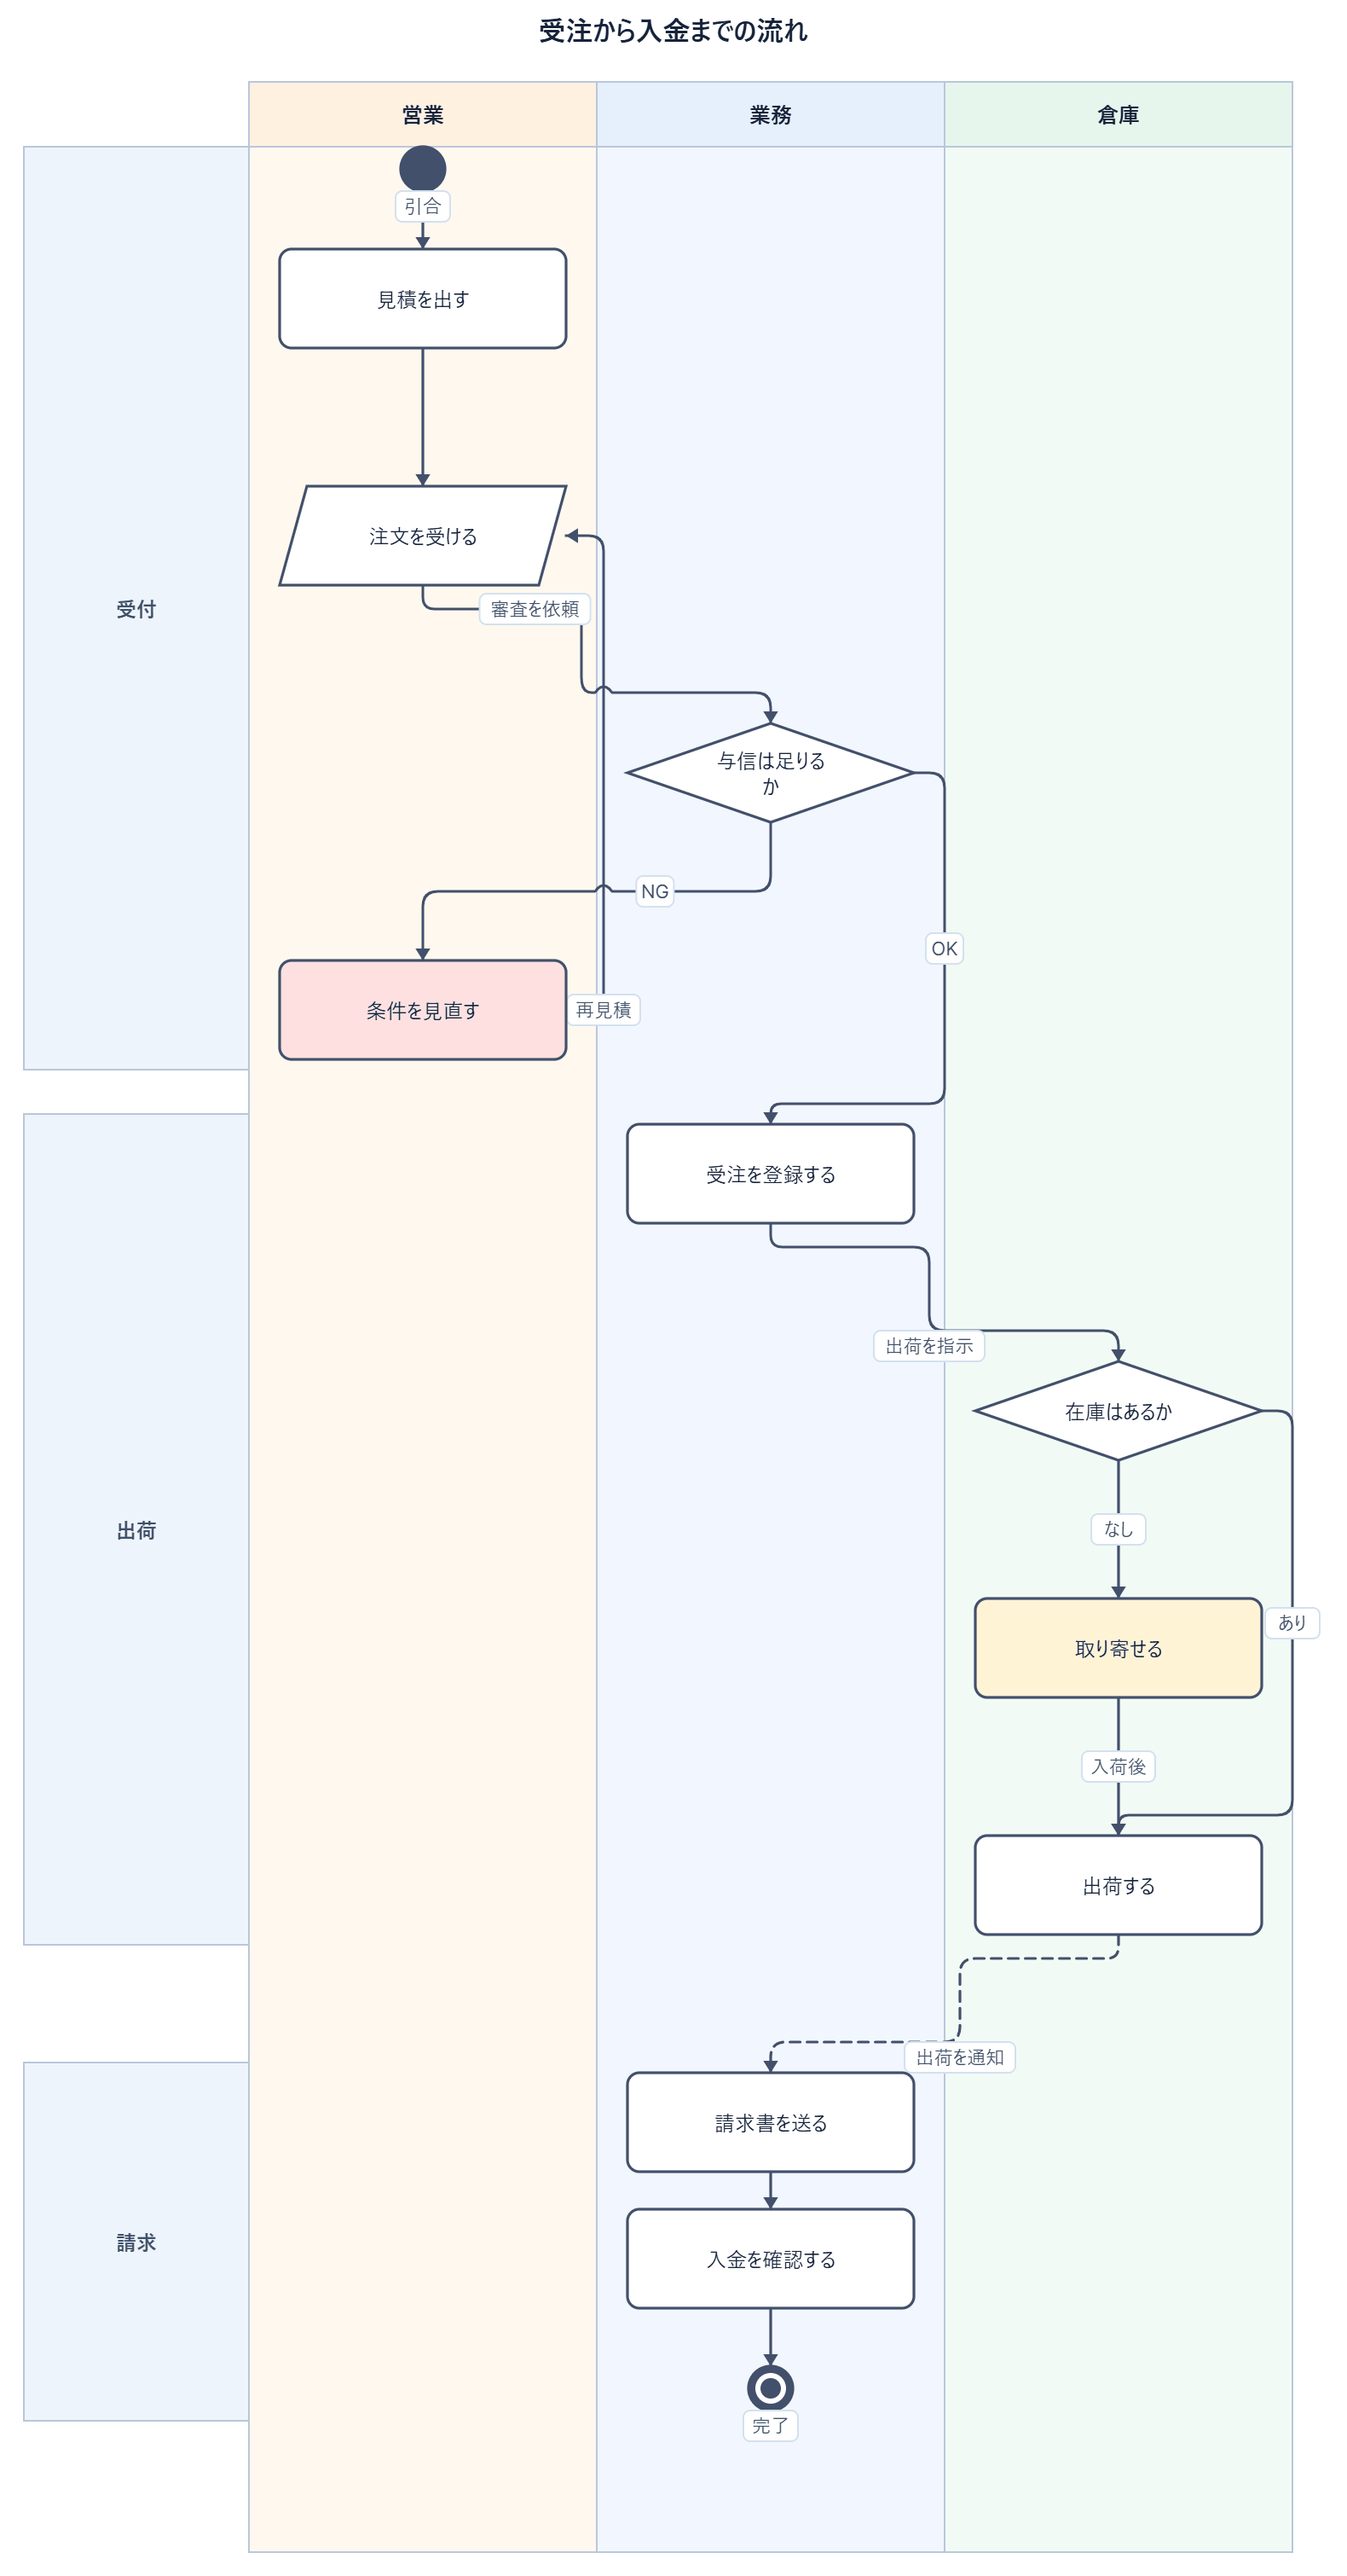
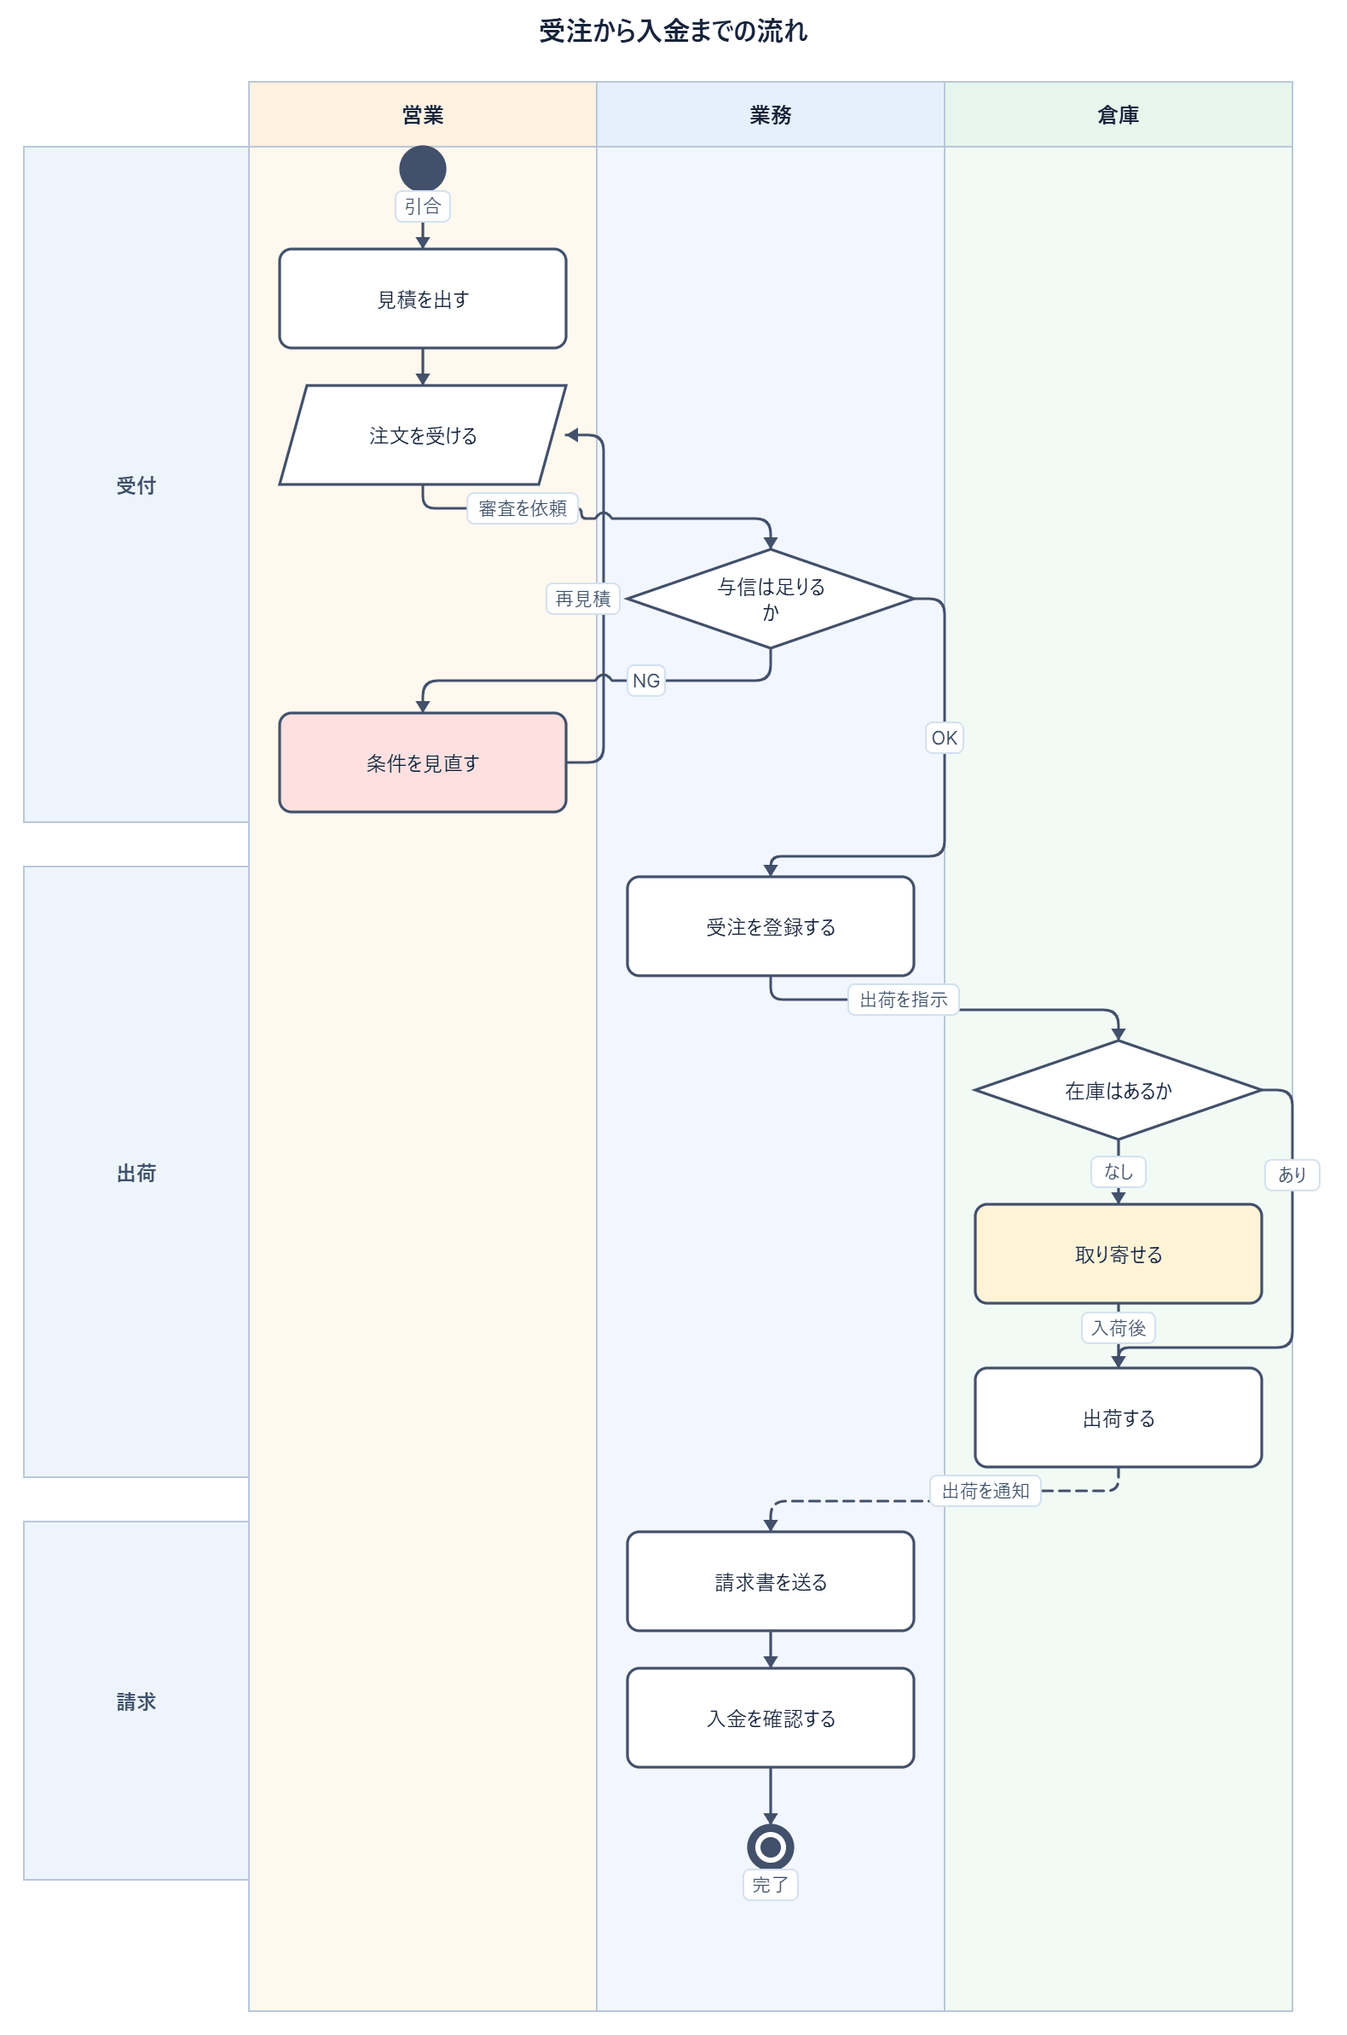
同梱しているエンジンを更新する（段の隙間を詰めた / 1.3.0）
swimlane-diagram 1.3.0 を取り込み、README の図も描き直した。
ラベルも折れ線も無い段が詰まり、ラベルがノードに重ならなくなっている。

diff --git a/vendor/swimlane.js b/vendor/swimlane.js
@@ -82,9 +82,18 @@ function quote(s){
 }
 /* 接続ラベルのおおよその表示幅（px）。ラベル背景の白丸角パネルの実際の幅と合わせて使う。
    全角文字は半角の約2倍として概算する（等幅ではないので目安値）。 */
+/* 接続ラベルの白い箱の高さ。描画と間隔の計算で同じ値を使う */
+const LABEL_BOX_H = 18;
 function labelPixelWidth(label){
   return [...String(label || '')].reduce((n, ch) => n + (/[\x00-\xff]/.test(ch) ? 6 : 11), 0) + 10;
 }
+/* 接続ラベルが「流れの向き」に要する大きさ（px）。
+   LR では文字の長さがそのまま効くが、TB では箱の高さ（18px）しか要らない。
+   ここを取り違えると、長いラベルが1つあるだけでフェーズ全体の段が間延びする。 */
+function labelMainExtent(label, dir){
+  return dir === 'LR' ? labelPixelWidth(label) + 16 : LABEL_BOX_H + 20;
+}
+
 /* 見出し（レーン名・フェーズ名）のおおよその表示幅（px）。
    太字なので、全角はフォントサイズとほぼ同じ幅、半角はその約6割として概算する。 */
 function headerTextWidth(label, fontSize){
@@ -683,30 +692,45 @@ function computeLayout(state){
       const ap = state.phases.length ? (A.phaseId || phases[0].id) : '__all';
       const bp = state.phases.length ? (B.phaseId || phases[0].id) : '__all';
       const aj = phases.findIndex(p=> p.id === ap), bj = phases.findIndex(p=> p.id === bp);
-      if((aj === j && bj === j + 1) || (aj === j + 1 && bj === j)) need = Math.max(need, labelPixelWidth(e.label) + 16);
+      if((aj === j && bj === j + 1) || (aj === j + 1 && bj === j)) need = Math.max(need, labelMainExtent(e.label, dir));
     });
     if(need) gapAfter[j] = Math.max(gapAfter[j], need);
   }
 
-  // フェーズ内にラベル付きの接続があると、流れ方向の間隔を広げてラベルの前後に棒を出す（要求1.2）。
-  // こちらも同様に、ラベルの実際の表示幅から必要な間隔を求める（要求1.2）。
-  const phaseGap = phases.map(p=>{
-    let need = L.gapInner;
+  /* 段と段の隙間は、その隙間を実際に何が通るかで決める（フェーズ内で一律にしない）。
+     ラベル付きの接続がまたぐ隙間だけを広げ、何も通らない隙間は gapInner のまま詰める。
+     一律にしていた頃は、長いラベルが1つあるだけでフェーズ全体が間延びしていた
+     （英語版の Intake が 110px、ラベルの無い Billing が 22px で、同じ図の中で揃わなかった）。 */
+  const phaseGapAt = phases.map((p, j)=>{
+    const gaps = new Array(Math.max(0, phaseRuns[j] - 1)).fill(L.gapInner);
+    if(!gaps.length) return gaps;
     state.links.forEach(e=>{
       if(!e.label) return;
       const A = state.nodes.find(n=> n.id === e.from), B = state.nodes.find(n=> n.id === e.to);
       if(!A || !B) return;
       const ap = state.phases.length ? (A.phaseId || phases[0].id) : '__all';
       const bp = state.phases.length ? (B.phaseId || phases[0].id) : '__all';
-      if(ap === p.id && bp === p.id) need = Math.max(need, labelPixelWidth(e.label) + 16);
+      if(ap !== p.id || bp !== p.id) return;
+      const pa = nodePos.get(A.id), pb = nodePos.get(B.id);
+      if(!pa || !pb) return;
+      const lo = Math.min(pa.flow, pb.flow), hi = Math.max(pa.flow, pb.flow);
+      const need = labelMainExtent(e.label, dir);
+      // 同じ段どうし（lo === hi）はレーンの間を横に走るので、段の隙間には関係しない
+      for(let r = lo; r < hi && r < gaps.length; r++) gaps[r] = Math.max(gaps[r], need);
     });
-    return need;
+    return gaps;
+  });
+  // フェーズの先頭から各段までの距離。隙間が段ごとに違うので足し上げて持つ
+  const phaseOffsets = phases.map((p, j)=>{
+    const offs = [0];
+    for(let r = 1; r < phaseRuns[j]; r++) offs.push(offs[r - 1] + nodeMain + phaseGapAt[j][r - 1]);
+    return offs;
   });
 
   const phaseBands = [];
   let main = mainStart;
   phases.forEach((p, j)=>{
-    let size = phaseRuns[j] * nodeMain + (phaseRuns[j] - 1) * phaseGap[j];
+    let size = phaseOffsets[j][phaseRuns[j] - 1] + nodeMain;
     // LRではフェーズ名が上の細い帯（高さ38px固定）に横書きで入る。縦には広げられないので、
     // 名前が帯より長いときは帯の長さ（流れ方向）を広げる。広げないとはみ出して切れる。
     if(hasPhaseHeader && dir === 'LR') size = Math.max(size, headerTextWidth(p.label, 12) + 16);
@@ -735,7 +759,7 @@ function computeLayout(state){
       const list = cell.get(key(l.id, p.id)) || [];
       list.forEach((n)=>{
         const { flow: col, cross: row } = nodePos.get(n.id);
-        const mainPos  = phaseBands[j].start + col * (nodeMain + phaseGap[j]);
+        const mainPos  = phaseBands[j].start + (phaseOffsets[j][col] != null ? phaseOffsets[j][col] : col * (nodeMain + L.gapInner));
         const crossPos = band.start + L.gapCross + row * (nodeCross + L.gapCross);
         const slot = dir === 'LR'
           ? { x: mainPos, y: crossPos, w: L.nodeW, h: L.nodeH }
@@ -1582,6 +1606,7 @@ function drawSvg(state){
     const segsOf = new Map();
     linkRenders.forEach(item=>{ if(item) segsOf.set(item.i, pathSegmentsOf(item.p.d)); });
     const placedBoxes = [];
+    const nodeBoxes = lay.boxes.map(b=> ({ x:b.x, y:b.y, w:b.w, h:b.h }));
     linkRenders.forEach(item=>{
       if(!item || !item.e.label) return;
       const others = [];
@@ -1589,16 +1614,38 @@ function drawSvg(state){
       const clear = (mid)=>{
         const box = labelBoxOf(mid, item.e.label);
         if(others.some(([x1, y1, x2, y2])=> segHitsBox(x1, y1, x2, y2, box))) return false;
+        // ノードの箱に重なると、図形の文字とラベルが混ざって読めなくなる
+        if(nodeBoxes.some(b=> overlaps(box, b))) return false;
         return !placedBoxes.some(b=> overlaps(box, b));
       };
       let mid = item.p.mid;
       if(mid && !clear(mid)){
-        // 真ん中から外側へ、少しずつ離れた位置を試す。最初に空いた所へ置く。
         const own = segsOf.get(item.i) || [];
-        for(const t of [0.38, 0.62, 0.28, 0.72, 0.2, 0.8]){
+        // 1) まず経路に沿って前後へずらす。線の上に載ったままなので、見た目がいちばん素直
+        let found = null;
+        for(const t of [0.38, 0.62, 0.3, 0.7, 0.24, 0.76, 0.18, 0.82, 0.12, 0.88]){
           const cand = pointAt(own, t);
-          if(cand && clear(cand)){ mid = cand; break; }
+          if(cand && clear(cand)){ found = cand; break; }
         }
+        // 2) それでも空かないときは、経路から横へ少しだけ外す。
+        //    戻りの辺のように、ノードのすぐ脇を通る線はどこへずらしても箱に重なるため
+        //    （英語版の「Re-quote」が「Revise the terms」に7px重なっていた）。
+        if(!found){
+          for(const off of [12, -12, 20, -20, 30, -30, 42, -42]){
+            for(const seg of own){
+              const [x1, y1, x2, y2] = seg;
+              const horiz = Math.abs(y1 - y2) < 0.5;
+              for(const u of [0.5, 0.35, 0.65, 0.25, 0.75]){
+                const px = x1 + (x2 - x1) * u, py = y1 + (y2 - y1) * u;
+                const cand = horiz ? { x:px, y:py + off } : { x:px + off, y:py };
+                if(clear(cand)){ found = cand; break; }
+              }
+              if(found) break;
+            }
+            if(found) break;
+          }
+        }
+        if(found) mid = found;
       }
       if(mid){
         item.p.mid = mid;
@@ -1754,7 +1801,7 @@ function renderTo(target, code){
 }
 
 return {
-  VERSION: '1.2.1',
+  VERSION: '1.3.0',
   SHAPES,
   LINK_STYLES,
   isDot,
